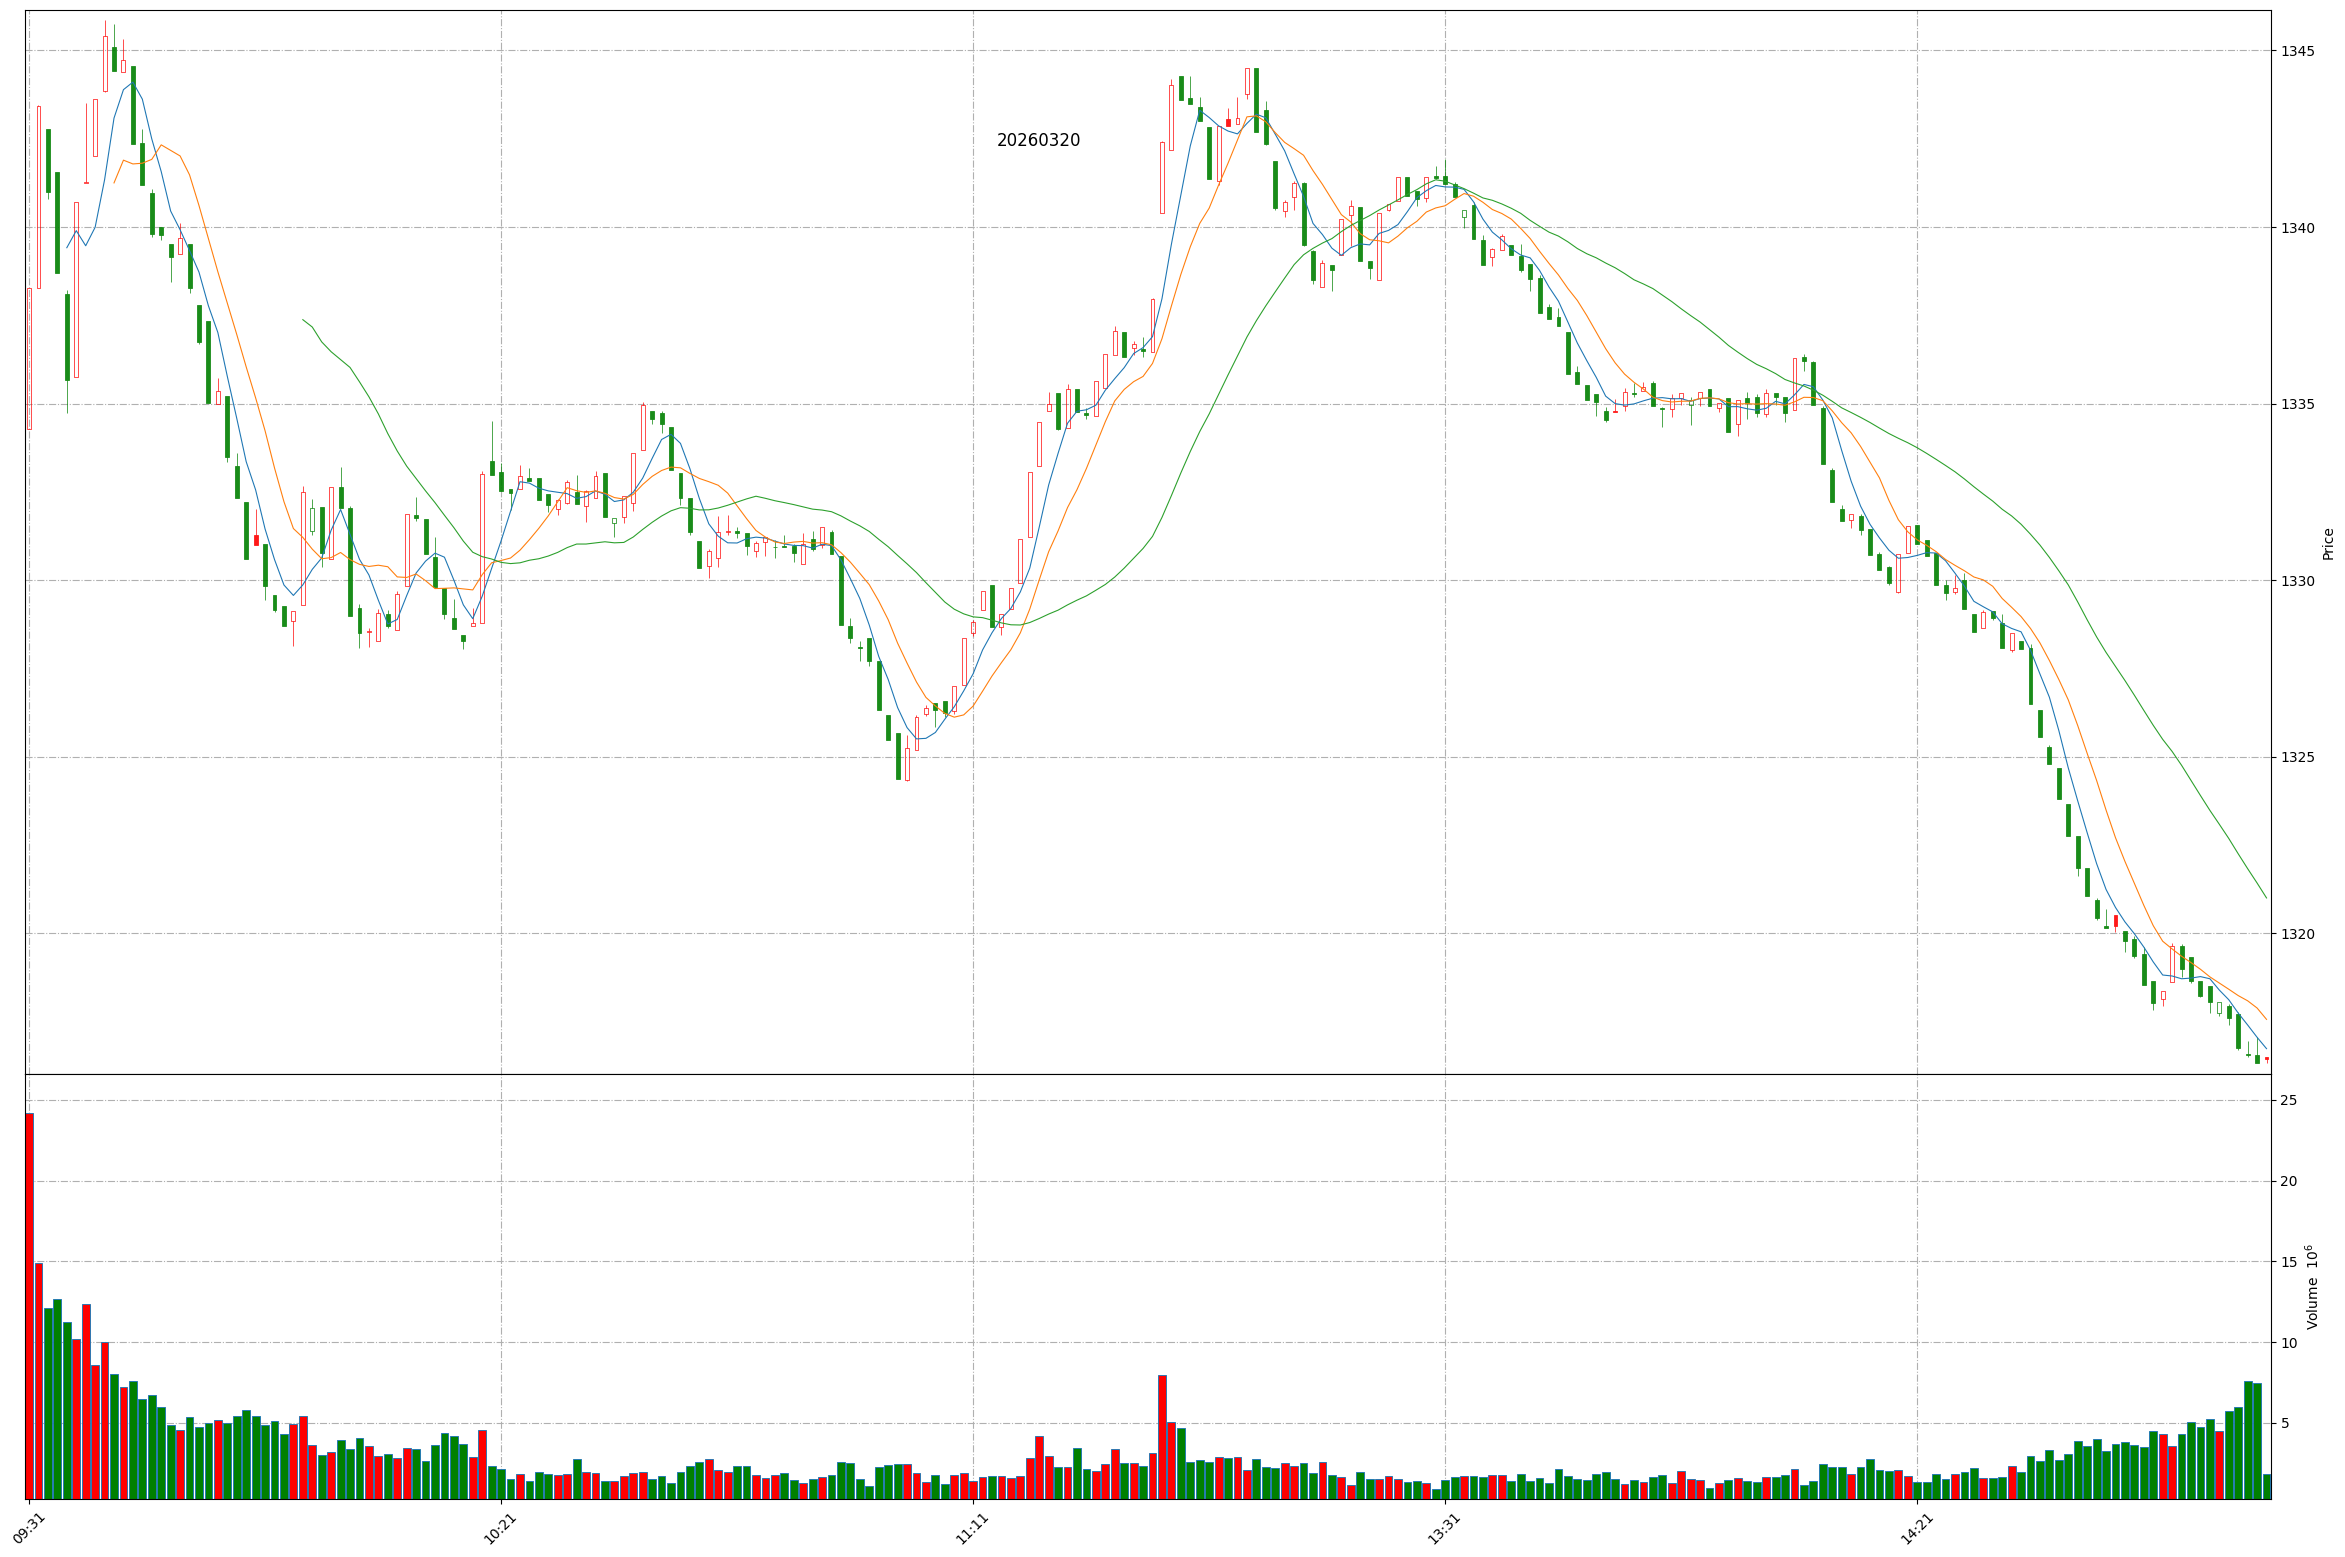
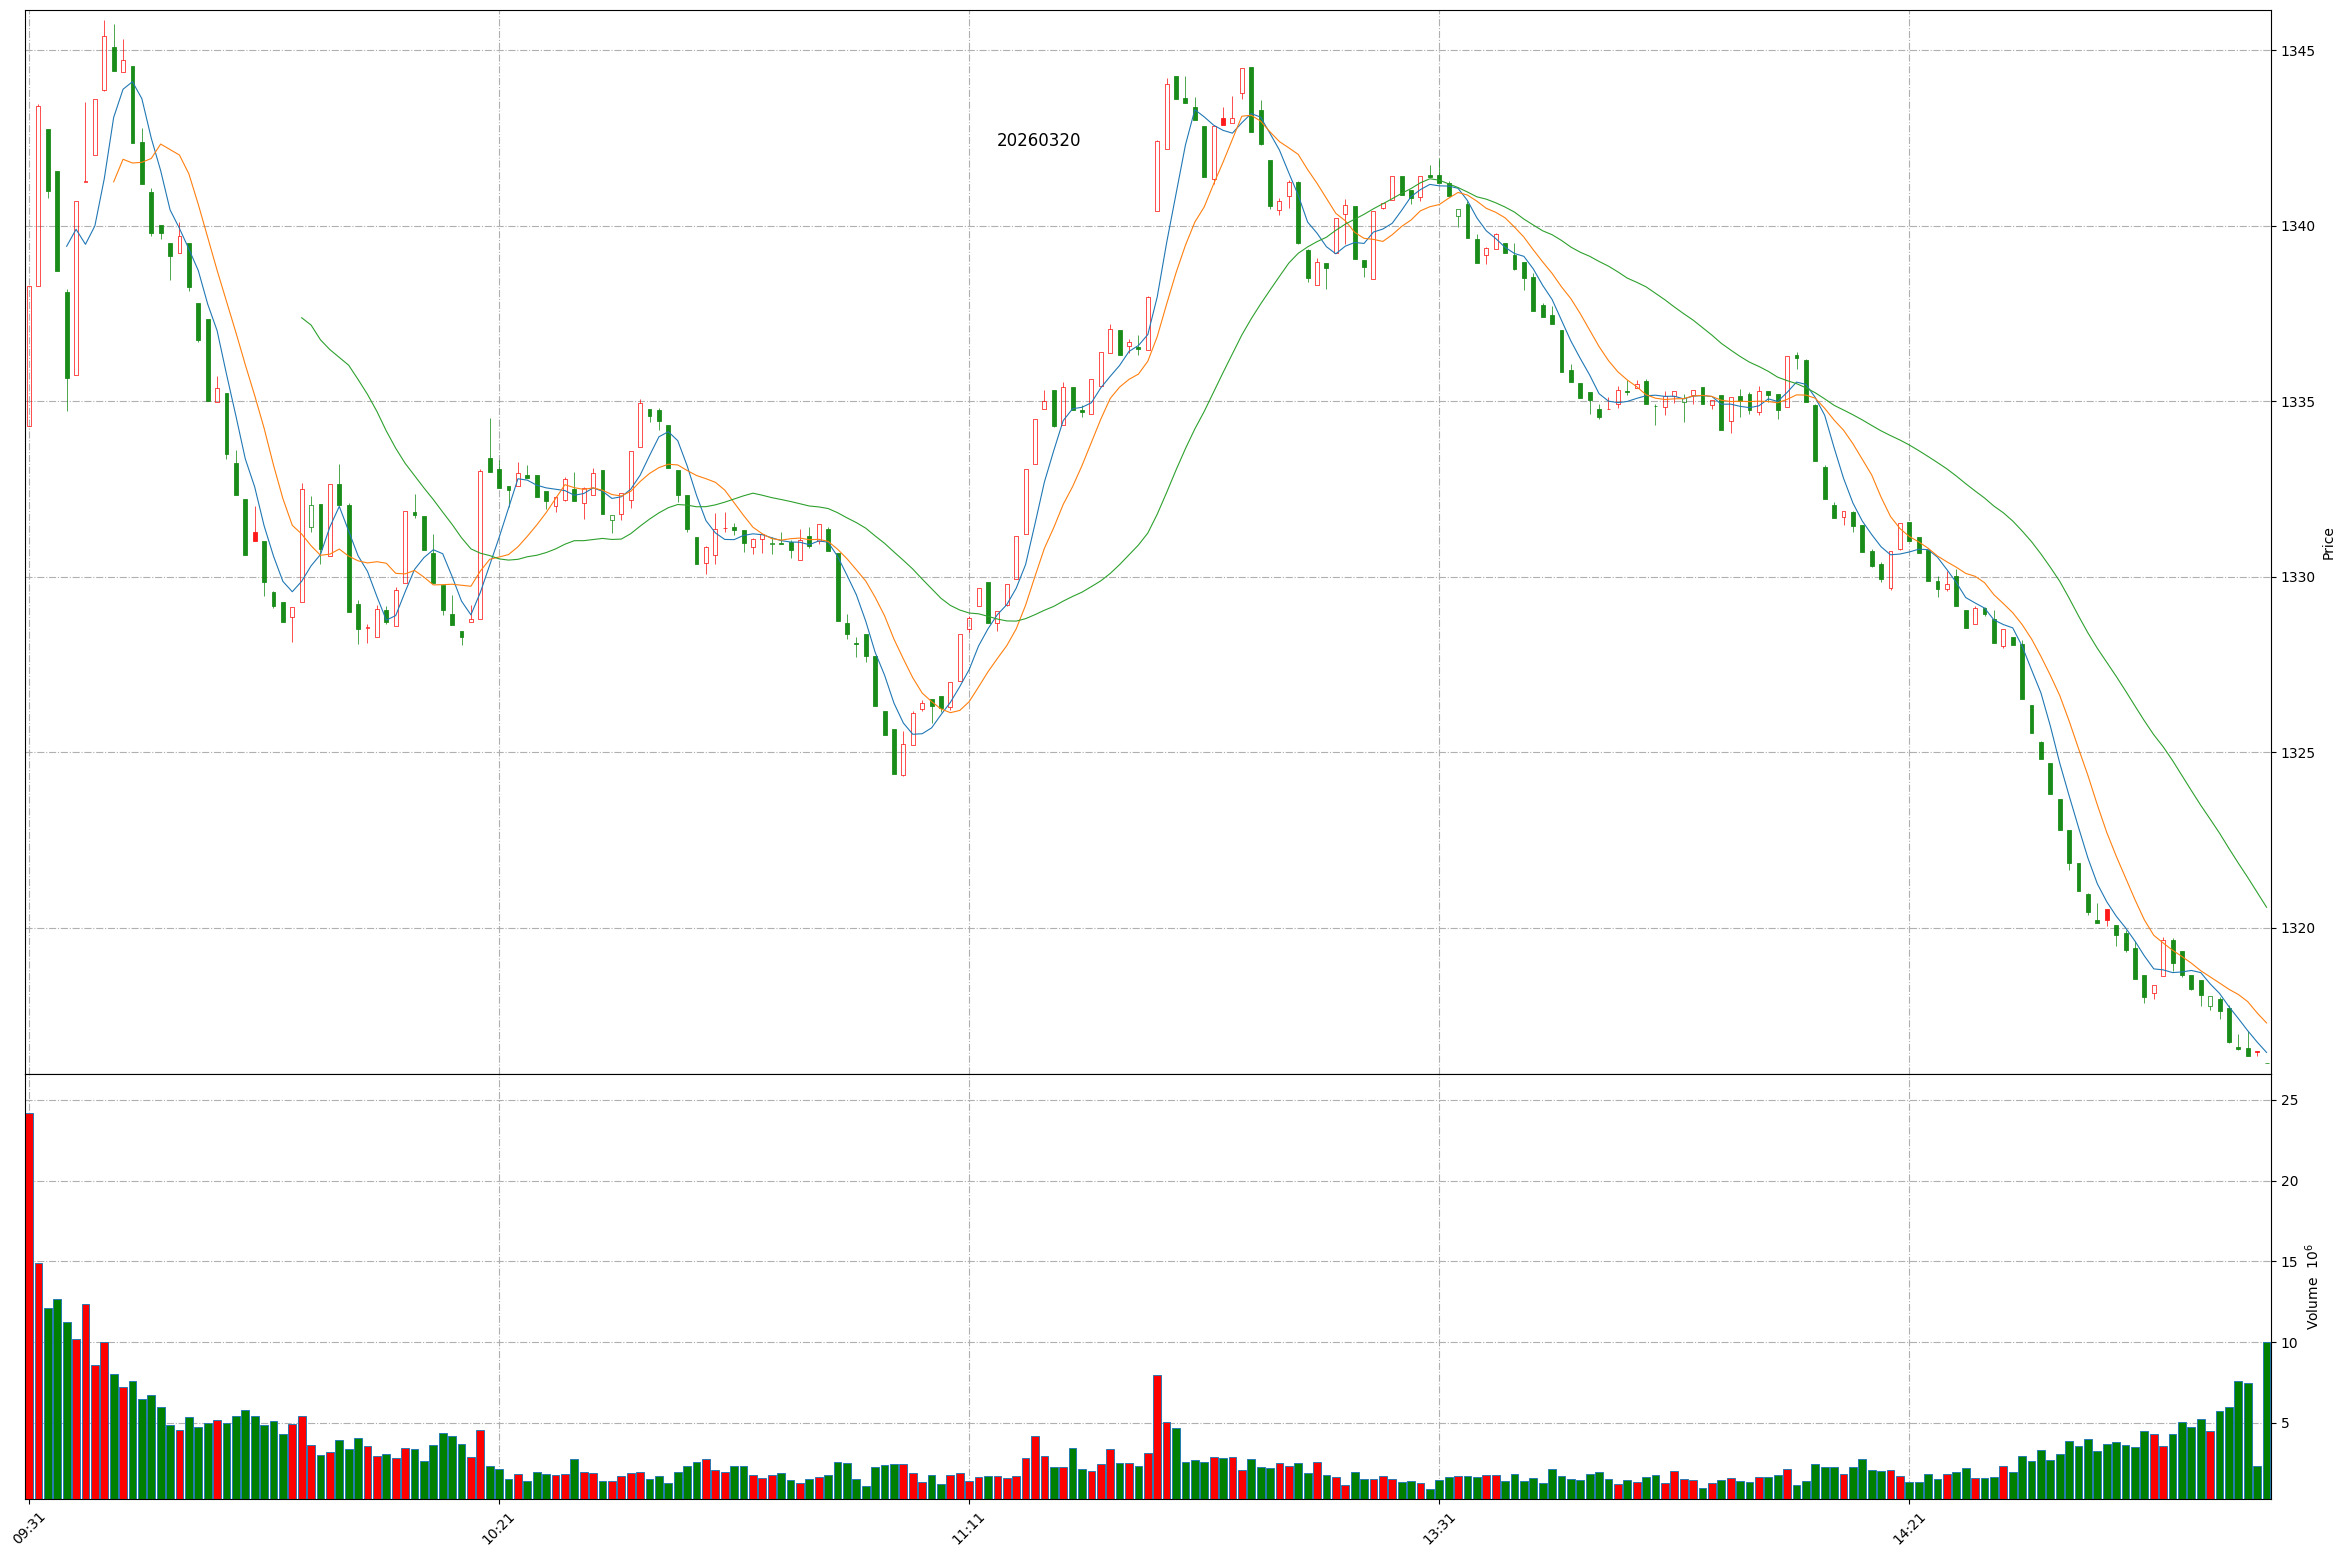
Github action update at 2026-03-20 15:11:12.

diff --git a/README.md b/README.md
@@ -1,11 +1,11 @@
 
 # Daily-A-share-market-quotes 每日 A 股指数（5min 更新）- 20260320
 
-### 上证指数 20260320 14:57
+### 上证指数 20260320 15:11
 ![](./fig/2026/3/20260320-sh000001.png)
 
-### 深证成指 20260320 14:57
+### 深证成指 20260320 15:11
 ![](./fig/2026/3/20260320-sz399001.png)
 
-### 北证50 20260320 14:57
+### 北证50 20260320 15:11
 ![](./fig/2026/3/20260320-bj899050.png)
